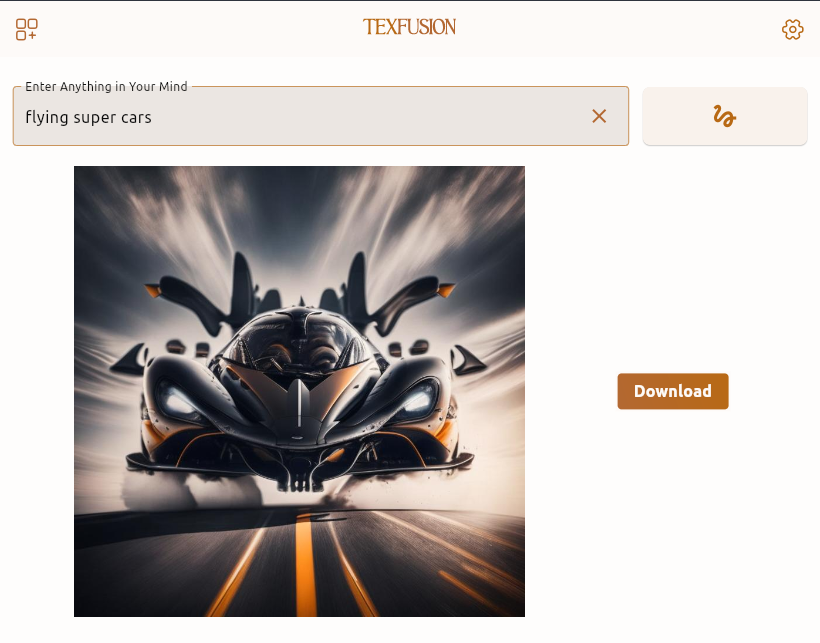
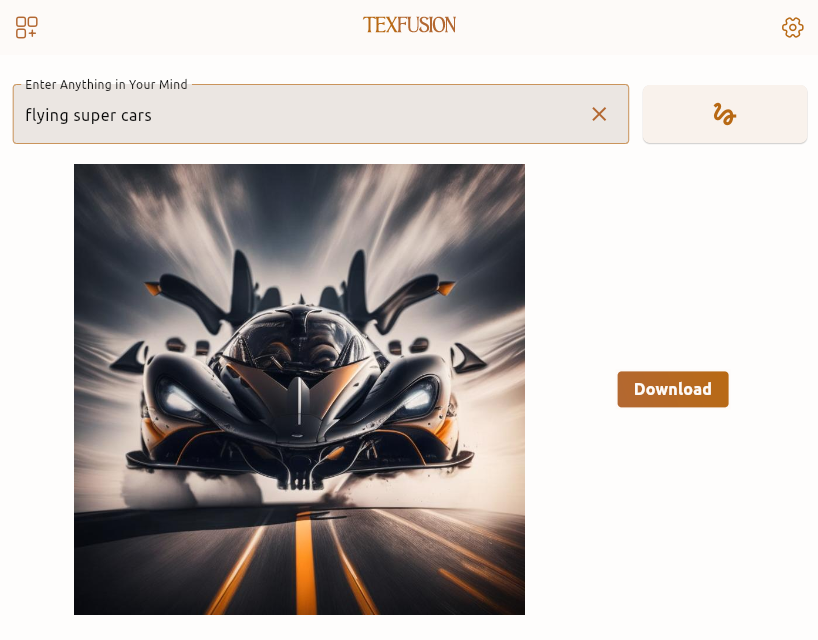
new README.md and format code

diff --git a/lib/Pages/home_page.dart b/lib/Pages/home_page.dart
@@ -62,7 +62,8 @@ class _HomePageState extends State<HomePage> {
         await file.writeAsBytes(canvas).whenComplete(() {
           ScaffoldMessenger.of(context).showSnackBar(
             SnackBar(
-              content: Text('${translation(context).imageWasSaved} : $filePath'),
+              content:
+                  Text('${translation(context).imageWasSaved} : $filePath'),
               elevation: 10,
             ),
           );
@@ -177,8 +178,10 @@ class _HomePageState extends State<HomePage> {
                           autofocus: false,
                           controller: _textEditingController,
                           decoration: InputDecoration(
-                            hintText: translation(context).putAnythingInYourMind,
-                            labelText: translation(context).putAnythingInYourMind,
+                            hintText:
+                                translation(context).putAnythingInYourMind,
+                            labelText:
+                                translation(context).putAnythingInYourMind,
                             border: const OutlineInputBorder(),
                             suffixIcon: IconButton(
                               onPressed: () {
@@ -370,16 +373,6 @@ class _HomePageState extends State<HomePage> {
                               mainAxisAlignment: MainAxisAlignment.spaceEvenly,
                               crossAxisAlignment: CrossAxisAlignment.center,
                               children: [
-                                SizedBox(
-                                  width:
-                                      MediaQuery.of(context).size.height * 0.7,
-                                  child: FadeInImage(
-                                    placeholder: const AssetImage(
-                                        'assets/images/Ai.webp'),
-                                    image: MemoryImage(image),
-                                    fit: BoxFit.contain,
-                                  ),
-                                ),
                                 Padding(
                                   padding: const EdgeInsets.all(10),
                                   child: InkWell(
@@ -436,6 +429,16 @@ class _HomePageState extends State<HomePage> {
                                         ),
                                       ),
                                     ),
+                                  ),
+                                ),
+                                SizedBox(
+                                  width:
+                                      MediaQuery.of(context).size.height * 0.7,
+                                  child: FadeInImage(
+                                    placeholder: const AssetImage(
+                                        'assets/images/Ai.webp'),
+                                    image: MemoryImage(image),
+                                    fit: BoxFit.contain,
                                   ),
                                 ),
                               ],
@@ -451,16 +454,6 @@ class _HomePageState extends State<HomePage> {
                               mainAxisAlignment: MainAxisAlignment.spaceEvenly,
                               crossAxisAlignment: CrossAxisAlignment.center,
                               children: [
-                                SizedBox(
-                                  width:
-                                      MediaQuery.of(context).size.height * 0.7,
-                                  child: FadeInImage(
-                                    placeholder: const AssetImage(
-                                        'assets/images/Ai.webp'),
-                                    image: MemoryImage(image),
-                                    fit: BoxFit.contain,
-                                  ),
-                                ),
                                 Padding(
                                   padding: const EdgeInsets.all(10),
                                   child: InkWell(
@@ -517,6 +510,16 @@ class _HomePageState extends State<HomePage> {
                                         ),
                                       ),
                                     ),
+                                  ),
+                                ),
+                                SizedBox(
+                                  width:
+                                      MediaQuery.of(context).size.height * 0.7,
+                                  child: FadeInImage(
+                                    placeholder: const AssetImage(
+                                        'assets/images/Ai.webp'),
+                                    image: MemoryImage(image),
+                                    fit: BoxFit.contain,
                                   ),
                                 ),
                               ],
@@ -611,7 +614,16 @@ class _HomePageState extends State<HomePage> {
                         print(error);
                       }
                       return Center(
-                        child: Text("${translation(context).failed} .${translation(context).noResultFound}"),
+                        child: Padding(
+                          padding: const EdgeInsets.all(50.0),
+                          child: Text(
+                            "${translation(context).failed} .${translation(context).noResultFound}",
+                            style: const TextStyle(
+                              fontWeight: FontWeight.bold,
+                              fontSize: 20,
+                            ),
+                          ),
+                        ),
                       );
                     }
                     return Container();

diff --git a/README.md b/README.md
@@ -14,12 +14,13 @@ TexFusion AI app created by flutter framework and it is a new AI art generation 
 - Added 12 Styles including 3D render.
 - Download Image
 - Different Theme And Modes
+- Multi Languages
 - Custom Font
 - Lightweight & user-friendly
-- Cross Platform (Android , Linux , Windows and MacOs)
 
 ## How it work !
 - Make sure you enter more descriptive prompt. As this is kind of new api, it produces HD image with less descriptive prompt. So, make sure you describe the image correctly that you want as output.
+- The prompt in English only
 
   Fork the repo 🔥 and don't forget to star the repo 🌟
 
@@ -48,10 +49,20 @@ TexFusion AI app created by flutter framework and it is a new AI art generation 
     <tr>                   
         <th>Dark Mode in Desktop</th>
         <th>Different Style</th>
+        <th>Arabic Language</th>
     </tr>
     <tr>
         <td><img src="screenshots/02.png" width=600/></td>
         <td><img src="screenshots/06.png" width=300/></td>
+        <td><img src="screenshots/11.png" width=300/></td>
+    </tr>
+        <tr>                   
+        <th>Cross Platform</th>
+        <th>Different Theme</th>
+    </tr>
+    <tr>
+        <td><img src="screenshots/09.png" width=900/></td>
+        <td><img src="screenshots/10.png" width=300/></td>
     </tr>
 </Table>
 
